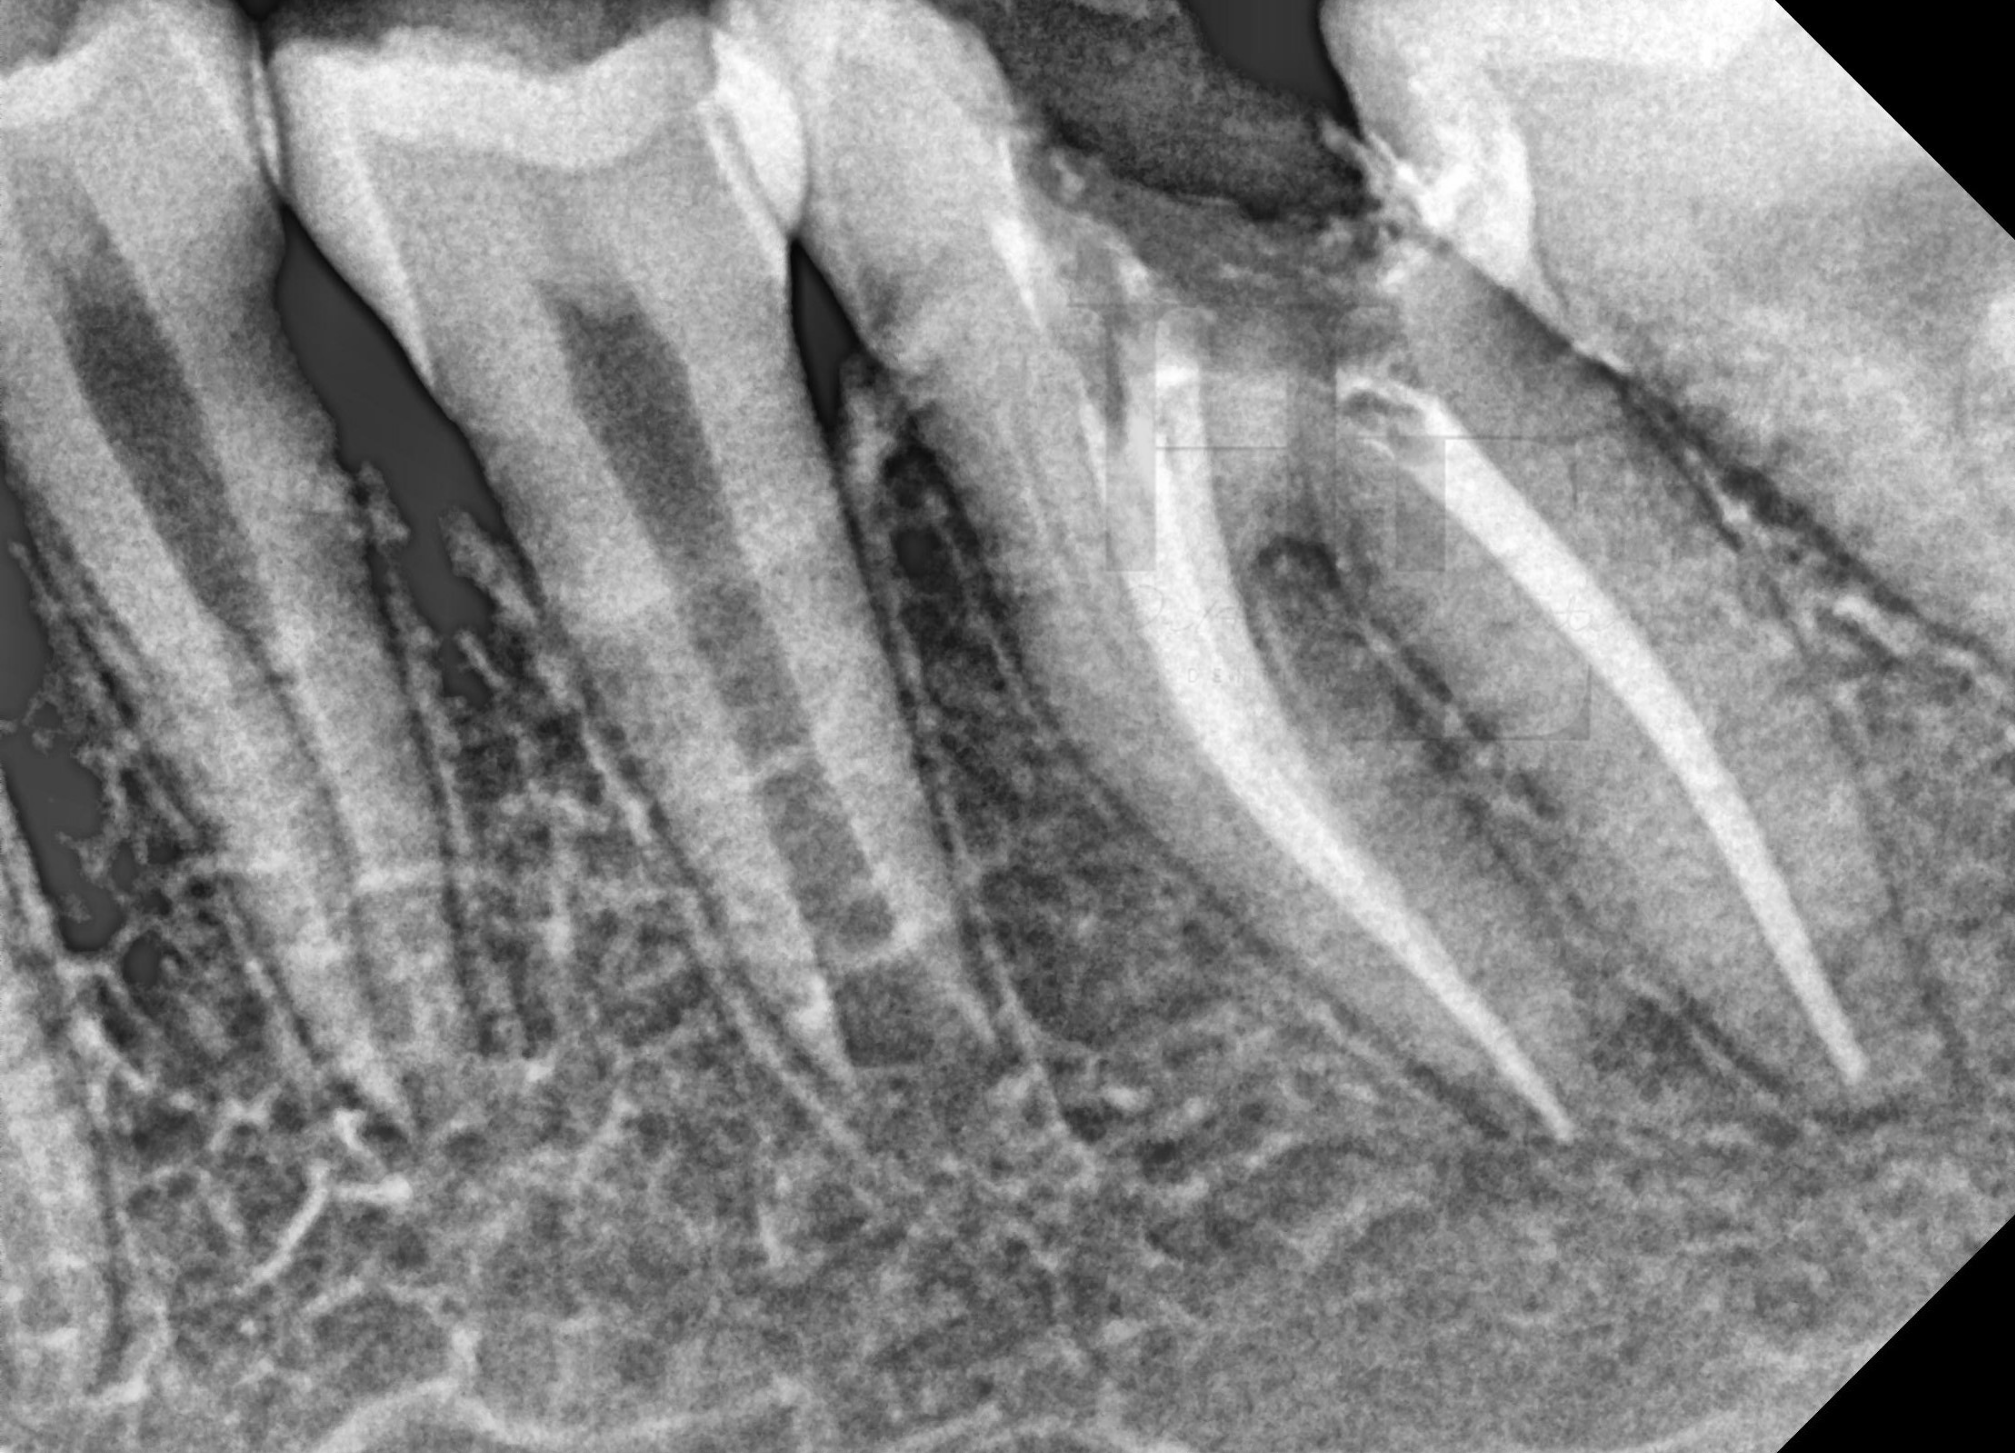
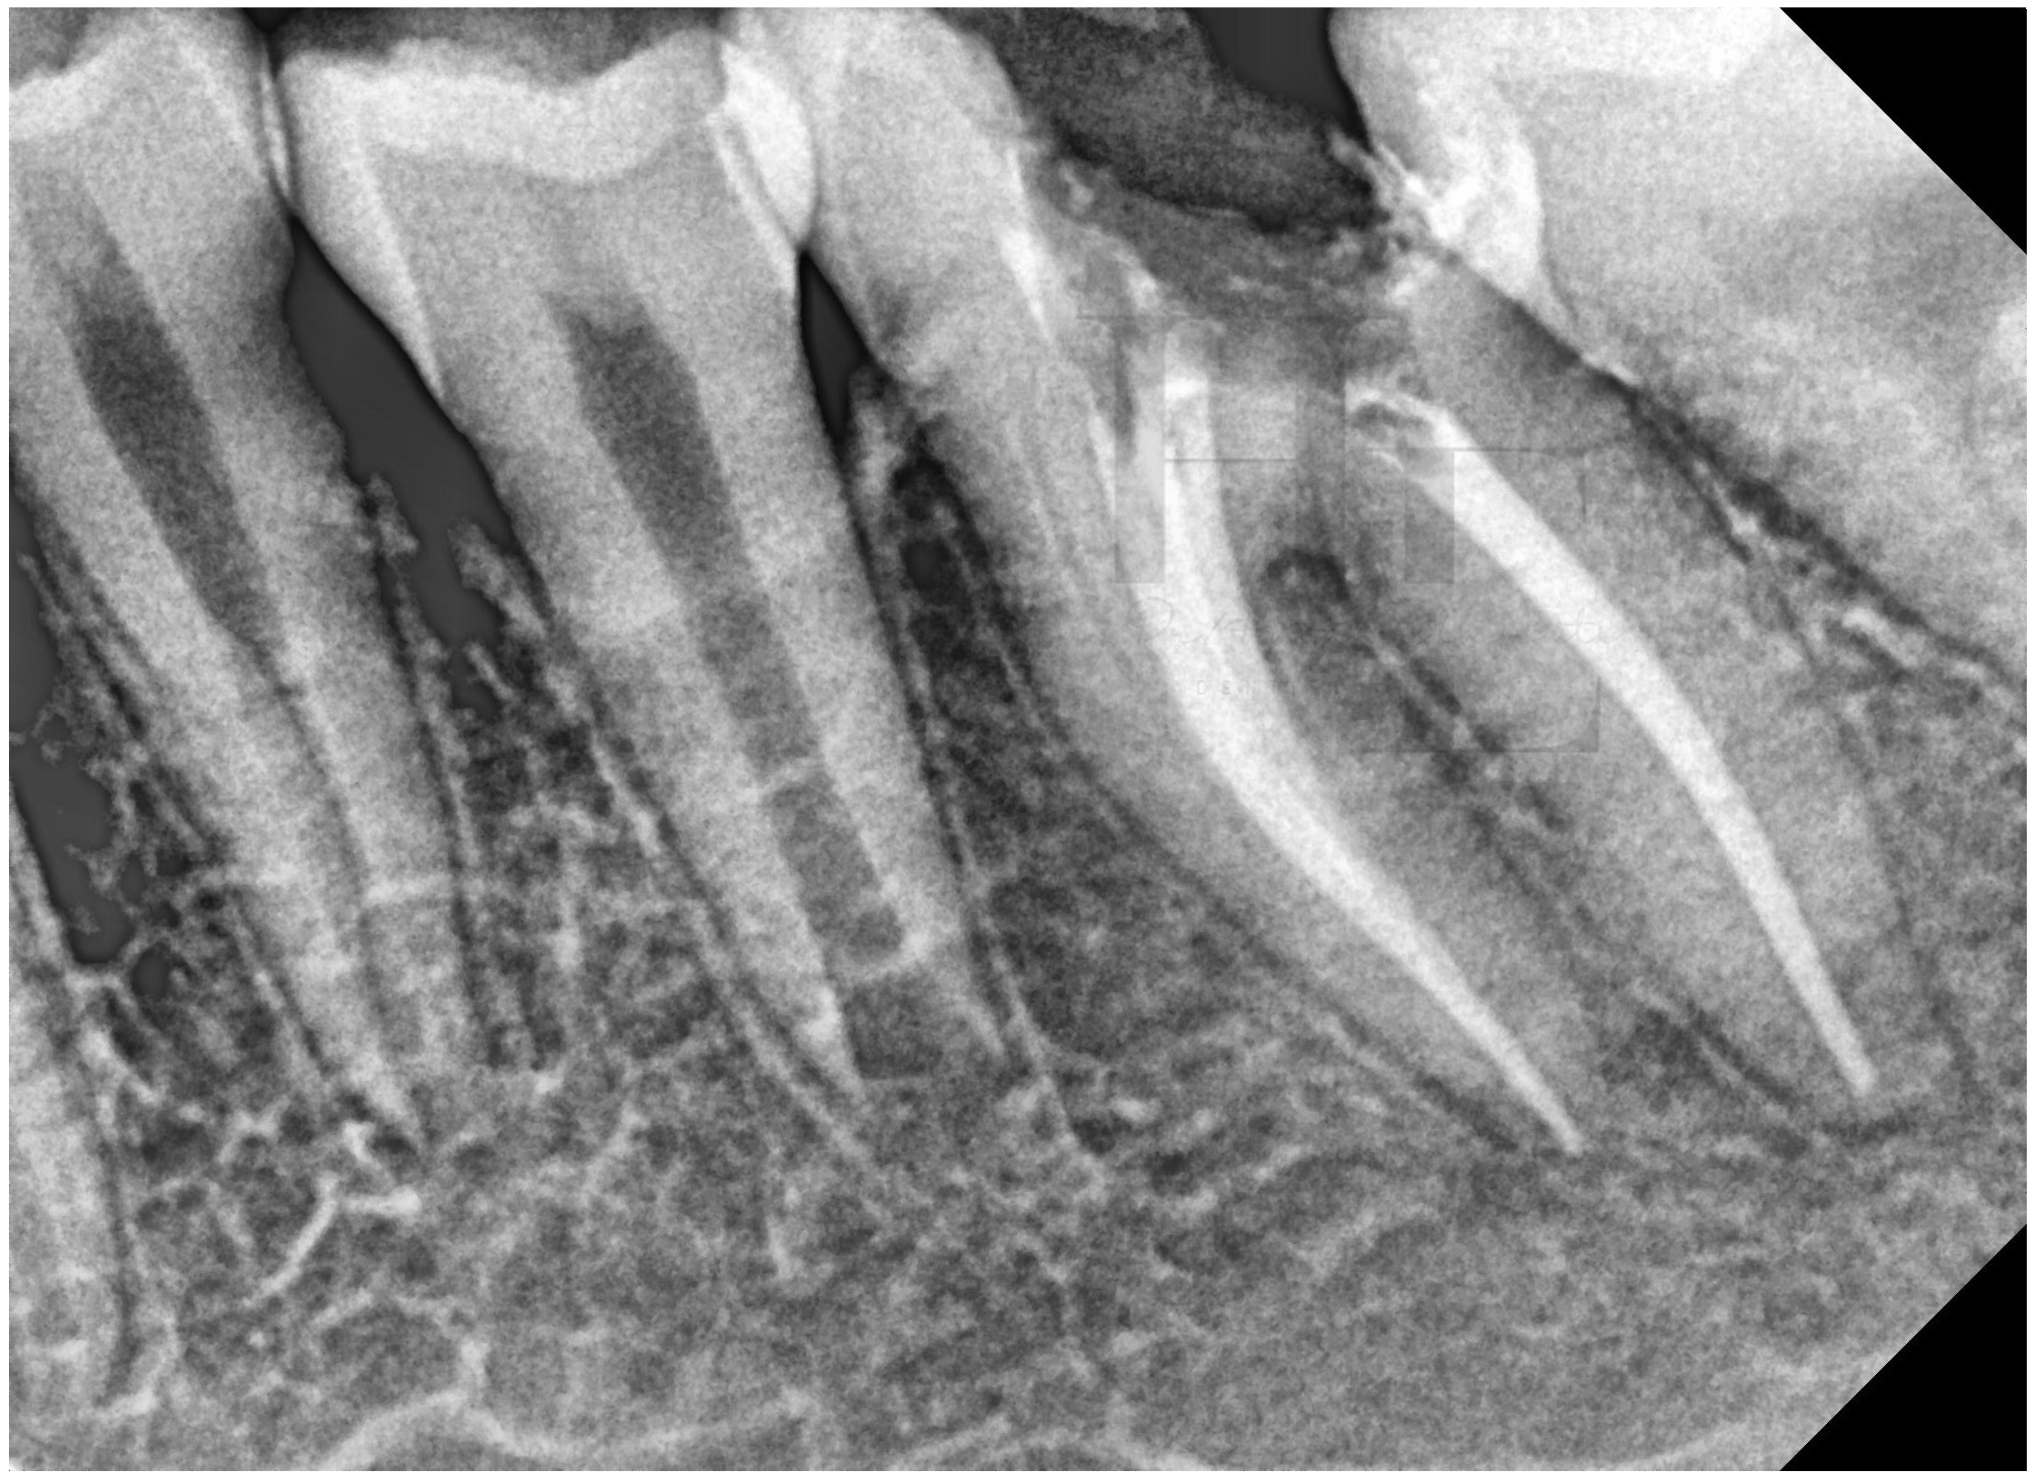
updated the aspect ratio of the images

diff --git a/components/image-gallary.tsx b/components/image-gallary.tsx
@@ -62,7 +62,7 @@ const ImageGallery = ({ images }: { images: ImageType[] }) => {
                 alt={image.caption}
                 width={image.width}
                 height={image.height}
-                className="w-full h-full object-cover object-center aspect-square"
+                className="w-full h-full object-cover object-center"
               />
             </DialogContent>
           </BootstrapDialog>
